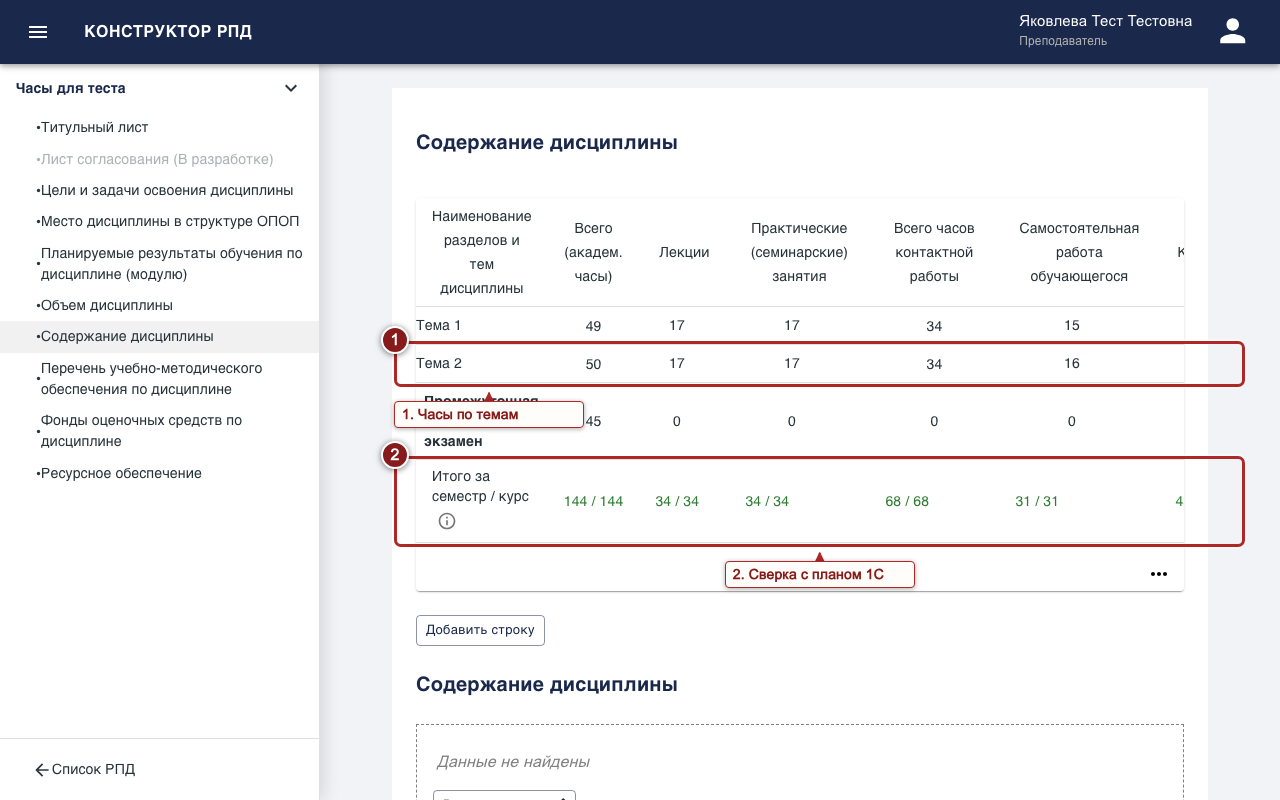
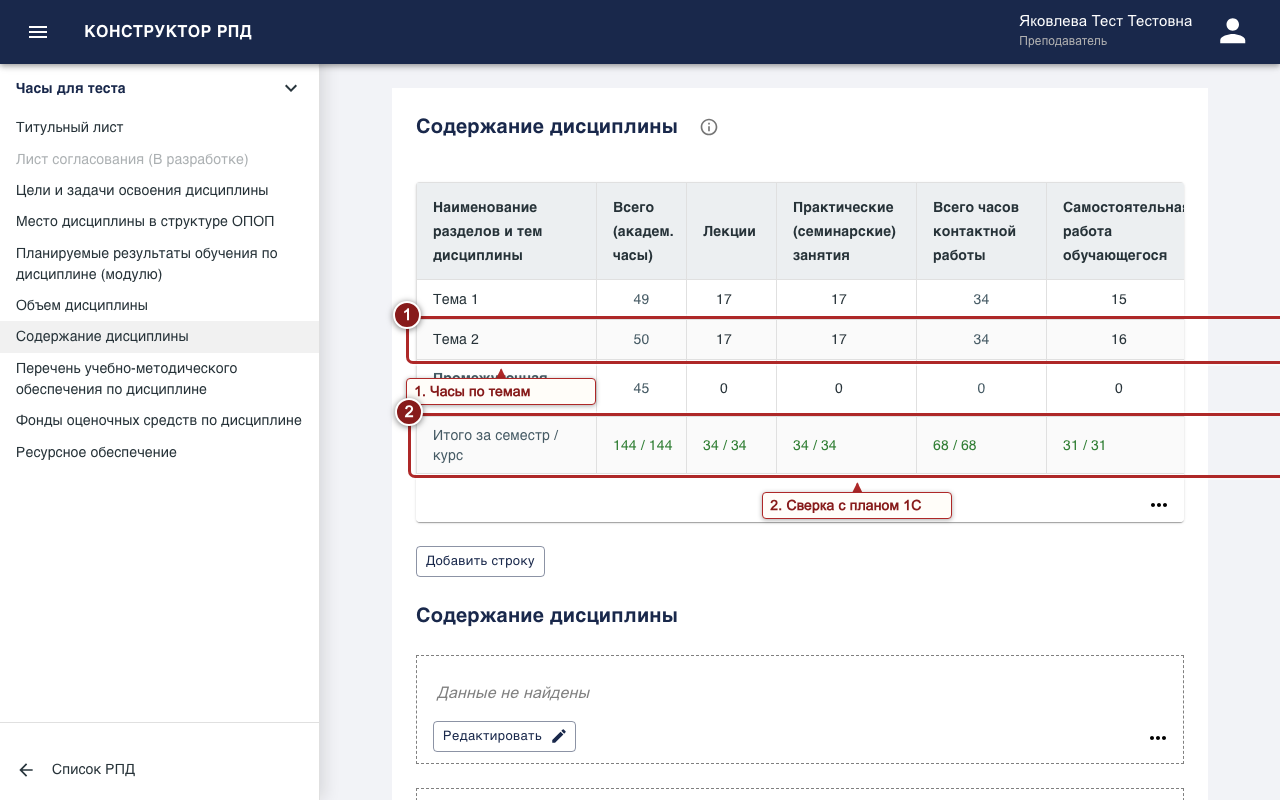
Документация: светлая строгая тема приложения, текст и скриншоты под изменения интерфейса
Проблема
- Документация (/docs/index.html) при тёмной системной теме открывалась в тёмном оформлении и по стилю не совпадала с приложением.
- Текст и скриншоты описывали прежний интерфейс: назначение в ячейке, сохранение по уходу фокуса, статус над разделом.

Причина
- В documentation.css стоял @media (prefers-color-scheme: dark), который подменял все цвета.

Что сделано
- Тёмный вариант убран, задан color-scheme: light. Цвета, шрифт и радиус 4 px взяты из темы приложения, заголовки тёмно-синие без плашек, у карточек нет тени. Содержание, навигация и адаптивность не изменились.
- Текст обновлён: колонки комплекта и диалог назначения, действия РПД по ролям, иконка «Открыть», сохранение текстов кнопкой, статус внизу панели разделов, значок «Правила заполнения» и предупреждение о часах, порядок меню профиля.
- В screenshots.spec назначение идёт через диалог, сохранение — через кнопку, присутствие берётся из блока статуса. Все десять скриншотов перегенерированы.

Как проверить
- cd e2e && bun run test:e2e tests/docs/theme.spec.ts — фон светлый при colorScheme light и dark, якоря работают.
- cd e2e && bun run docs:screenshots — кадры снимаются без ошибок.

diff --git a/rpd-client-ts/public/docs/index.html b/rpd-client-ts/public/docs/index.html
@@ -45,7 +45,7 @@
           <li><strong>Администратор</strong> управляет учётными записями.</li></ul>
       </section>
       <section class="sub-chapter" id="navigation"><h3>Навигация и смена роли</h3>
-        <p>Откройте боковую панель кнопкой ☰. Пункт <strong>«Документация»</strong> открывает эту страницу в новой вкладке. У аккаунта РОП в меню профиля есть переключение между ролями РОП и преподавателя; у остальных ролей такого переключения нет.</p>
+        <p>Откройте боковую панель кнопкой ☰. Пункт <strong>«Документация»</strong> открывает эту страницу в новой вкладке. Меню профиля открывается по имени в правом верхнем углу. У аккаунта РОП сверху в нём переключатель между ролями РОП и преподавателя, ниже — <strong>«Настройки»</strong> и <strong>«Выйти»</strong>; у остальных ролей переключателя нет.</p>
       </section>
     </section>
 
@@ -64,14 +64,17 @@
           <figcaption>Список комплектов: 1 — откройте комплект кнопкой «Комплект РПД».</figcaption></figure>
       </section>
       <section class="sub-chapter" id="rpd-in-complect"><h3>РПД и преподаватели</h3>
-        <p>В комплекте каждая строка соответствует дисциплине. Если РПД ещё не создана, нажмите <strong>«Создать»</strong> в колонке «Действия». Для созданной РПД откройте <strong>«Меню шаблона»</strong> и выберите <strong>«Открыть»</strong>. В колонке «Преподаватели» выберите один или несколько существующих аккаунтов: назначение сохраняется при изменении выбора. Подсказка «из 1С» помогает найти нужного преподавателя; если аккаунта нет, его должен создать администратор.</p>
+        <p>В комплекте каждая строка соответствует дисциплине; колонки — «Дисциплина», «Семестр», «Преподаватели», «Статус» и «Действия». Если РПД ещё не создана, нажмите <strong>«Создать»</strong> в колонке «Действия». Для созданной РПД откройте <strong>«Меню шаблона»</strong> (значок «…») и выберите <strong>«Открыть»</strong>.</p>
+        <p>В колонке «Преподаватели» назначенные перечислены списком: полное ФИО и личная отметка — «Назначен», «В работе» или «Готово»; неактивные аккаунты помечены. Состав меняется в диалоге «Преподаватели: …». Откройте его кнопкой ✎ <strong>«Изменить преподавателей»</strong> в ячейке или одноимённым пунктом меню «…». В диалоге найдите преподавателя в поле поиска и отметьте флажок; пометка «из 1С» показывает, кто указан в 1С. Если преподаватель есть в 1С, но аккаунта нет, внизу диалога появится справка «В 1С, аккаунт не найден» — такой аккаунт должен создать администратор. Изменения применяются сразу, диалог закрывается кнопкой <strong>«Закрыть»</strong>. В статусе «Готов» состав менять нельзя: сначала верните РПД на доработку.</p>
+        <p>Изменения из 1С («Обновлено из 1С», дата, «Просмотрено») показаны в колонке «Статус» под этапом.</p>
         <figure class="figure"><img src="media/complect-table.png" alt="Страница комплекта с дисциплинами, преподавателями и статусами" width="1280" height="800" loading="lazy" />
           <figcaption>Страница комплекта: 1 — найдите дисциплину; 2 — проверьте статус и отметки готовности.</figcaption></figure>
-        <figure class="figure"><img src="media/teacher-selection.png" alt="Выбор аккаунтов преподавателей в строке РПД" width="1280" height="800" loading="lazy" />
-          <figcaption>Назначение преподавателей: 1 — откройте поле «Преподаватели»; 2 — выберите аккаунт из списка.</figcaption></figure>
+        <figure class="figure"><img src="media/teacher-selection.png" alt="Диалог назначения преподавателей с поиском и флажками" width="1280" height="800" loading="lazy" />
+          <figcaption>Назначение преподавателей: 1 — найдите аккаунт в поле поиска; 2 — отметьте его флажком.</figcaption></figure>
       </section>
       <section class="sub-chapter" id="workflow"><h3>Готовность и согласование</h3>
-        <p>Преподаватели отмечают свою работу кнопкой <strong>«Готово»</strong>. Колонка «Статус» показывает общую готовность и число отметившихся. Когда все активные назначенные преподаватели отметились, статус становится «Готов». При необходимости РОП может нажать <strong>«Принять»</strong> раньше: в статусах «Назначены преподаватели», «В работе» или «На доработке», если есть хотя бы один активный преподаватель. После этого статус также становится «Готов». В статусе «Готов» РОП может нажать <strong>«Вернуть на доработку»</strong> с обязательным комментарием; преподавателям снова потребуется отметить готовность.</p>
+        <p>Действия в колонке «Действия» зависят от активной роли. У преподавателя — основная кнопка: <strong>«Взять в работу»</strong>, затем <strong>«Готово»</strong>; остальное, например <strong>«Снять отметку»</strong>, — в меню «…». Колонка «Статус» показывает этап и число отметившихся («N/M готовы»). Когда все активные назначенные преподаватели отметились, статус становится «Готов».</p>
+        <p>У РОП основная кнопка — <strong>«Принять»</strong>: он может принять РПД раньше, в статусах «Назначены преподаватели», «В работе» или «На доработке», если есть хотя бы один активный преподаватель. После этого статус также становится «Готов». В статусе «Готов» РОП нажимает <strong>«Вернуть на доработку»</strong> с обязательным комментарием; преподавателям снова потребуется отметить готовность.</p>
       </section>
       <section class="sub-chapter" id="import-history"><h3>Импорт и история</h3>
         <p>В <strong>«Меню шаблона»</strong> выберите <strong>«Импортировать»</strong>, затем комплект и готовый шаблон для переноса содержательных полей. Перед подтверждением проверьте, какие данные будут заменены. Пункт <strong>«История шаблона»</strong> показывает события статусов и назначений; правки отдельных полей смотрите в редакторе.</p>
@@ -88,24 +91,25 @@
           <figcaption>Компетенции: 1 — выберите профиль; 2 — укажите год набора.</figcaption></figure>
       </section>
       <section class="sub-chapter" id="comments"><h3>Комментарии к разделам</h3>
-        <p>В редакторе РОП может добавить комментарий у заголовка раздела. Преподаватель видит комментарий рядом с этим разделом. Если РПД требует исправлений целиком, используйте <strong>«Вернуть на доработку»</strong> с комментарием.</p>
+        <p>В редакторе РОП может добавить комментарий у заголовка раздела: текст вводится в редакторе и сохраняется кнопкой <strong>«Сохранить комментарий»</strong>, у комментария указано ФИО автора. Преподаватель видит комментарий рядом с этим разделом. Если РПД требует исправлений целиком, используйте <strong>«Вернуть на доработку»</strong> с комментарием.</p>
       </section>
     </section>
 
     <section class="chapter" aria-labelledby="teacher-heading">
       <h2 id="teacher-heading">Преподаватель</h2>
       <section class="sub-chapter" id="my-rpd"><h3>Свои РПД</h3>
-        <p>Откройте <strong>«Список шаблонов»</strong>. В таблице видны назначенные РПД, их общий статус и колонка «Моя отметка». Нажмите <strong>«Открыть»</strong> в нужной строке.</p>
+        <p>Откройте <strong>«Список шаблонов»</strong>. В таблице видны назначенные РПД, их общий статус и колонка «Моя отметка». В колонке «Действия» значок <strong>«Открыть»</strong> (подпись появляется при наведении) открывает редактор; рядом — основная кнопка («Взять в работу» или «Готово»), остальные действия — в меню «…».</p>
         <figure class="figure"><img src="media/teacher-templates.png" alt="Список назначенных преподавателю РПД" width="1280" height="800" loading="lazy" />
-          <figcaption>Свои РПД: 1 — найдите дисциплину; 2 — откройте её.</figcaption></figure>
+          <figcaption>Свои РПД: 1 — проверьте колонку «Моя отметка»; 2 — откройте РПД значком «Открыть».</figcaption></figure>
       </section>
       <section class="sub-chapter" id="editor"><h3>Редактор и совместная работа</h3>
-        <p>Выберите раздел в боковой панели. Текст и ячейки таблиц сохраняются при выходе из редактируемого поля. Над разделом видно, кто сейчас открыл шаблон и кто внёс последние правки. Если другой участник изменил то же поле раньше вас, редактор сообщит о конфликте и покажет актуальное содержимое; проверьте его перед повторной правкой.</p>
-        <figure class="figure"><img src="media/editor-collaboration.png" alt="Редактор РПД с панелью присутствия и сведениями о последнем изменении" width="1280" height="800" loading="lazy" />
-          <figcaption>Редактор: 1 — выберите раздел; 2 — проверьте участников и сведения об изменении.</figcaption></figure>
+        <p>Выберите раздел в боковой панели. Тексты РПД (цели, место дисциплины, дополнительные тексты, ресурсное обеспечение) открываются кнопкой <strong>«Редактировать»</strong> и сохраняются кнопкой <strong>«Сохранить изменения»</strong>; <strong>«Отменить»</strong> закрывает редактор без сохранения. Ячейки таблиц, списки и выбор значений сохраняются при выходе из ячейки.</p>
+        <p>Внизу боковой панели, над кнопкой «Сформировать документ», показаны статус сохранения («Сохранение…», «Есть несохранённые изменения», «Сохранено в …»), последняя правка шаблона и строка «Сейчас в шаблоне» со списком участников. Под заголовком раздела написано «Изменено: …» — кто и когда правил его последним. Если другой участник изменил то же поле раньше вас, редактор сообщит о конфликте: у текста черновик останется в редакторе — отмените редактирование, чтобы увидеть актуальное значение, и внесите правку заново.</p>
+        <figure class="figure"><img src="media/editor-collaboration.png" alt="Редактор РПД: панель разделов со статусом сохранения, последней правкой и участниками" width="1280" height="800" loading="lazy" />
+          <figcaption>Редактор: 1 — выберите раздел; 2 — внизу панели проверьте статус сохранения, последнюю правку и участников.</figcaption></figure>
       </section>
       <section class="sub-chapter" id="hours"><h3>Содержание дисциплины и часы</h3>
-        <p>В разделе <strong>«Содержание дисциплины»</strong> заполняйте темы и часы. Сумма по темам сравнивается с учебным планом 1С: зелёный цвет означает совпадение, красный — расхождение. Контроль указывают в строке промежуточной аттестации. Данные учебного плана справа могут менять только РОП и администратор. Изменения в ячейке сохраняются при выходе из неё.</p>
+        <p>В разделе <strong>«Содержание дисциплины»</strong> заполняйте темы и часы. Значок ⓘ <strong>«Правила заполнения»</strong> у заголовка раздела напоминает формулы расчёта, правило для контроля и смысл цветов. Сумма по темам сравнивается с учебным планом 1С: зелёный цвет означает совпадение, красный — расхождение. При расхождении под таблицей появляется предупреждение «Часы не совпадают с учебным планом» с перечнем только несовпавших показателей, например «всего 132 из 144; лекции 22 из 34». Контроль указывают в строке промежуточной аттестации. Данные учебного плана справа могут менять только РОП и администратор. Изменения в ячейке сохраняются при выходе из неё.</p>
         <figure class="figure"><img src="media/discipline-content.png" alt="Таблица содержания дисциплины с часами по темам и планом 1С" width="1280" height="800" loading="lazy" />
           <figcaption>Часы: 1 — заполните темы; 2 — сравните суммы с планом 1С.</figcaption></figure>
       </section>

diff --git a/rpd-client-ts/public/docs/css/documentation.css b/rpd-client-ts/public/docs/css/documentation.css
@@ -1,50 +1,51 @@
+/* Цвета и шрифт — из темы приложения (src/shared/config/theme.ts); страница всегда светлая. */
 :root {
   color-scheme: light;
-  --ink: #1e2a36;
-  --muted: #3d5060;
-  --bg: #f4f6fa;
+  --ink: #263238;
+  --muted: #546e7a;
+  --primary: #19284b;
+  --bg: #f2f3f7;
   --card: #fff;
-  --soft: #f2f5fb;
-  --border: #dce3ec;
-  --accent: #263238;
-  --link: #185991;
-  --focus: #b5412c;
+  --soft: #f2f3f7;
+  --border: rgba(0, 0, 0, .12);
+  --hover: rgba(0, 0, 0, .04);
+  --radius: 4px;
 }
 * { box-sizing: border-box; }
 html { scroll-behavior: smooth; }
-body { margin: 0; padding: 32px 24px; background: var(--bg); color: var(--ink); font: 16px/1.6 system-ui, -apple-system, "Segoe UI", sans-serif; }
-.wrapper { max-width: 1360px; margin: auto; display: flex; align-items: flex-start; gap: 32px; }
-.sidebar, .content { background: var(--card); border: 1px solid var(--border); border-radius: 14px; box-shadow: 0 4px 16px #0000000a; }
+body { margin: 0; padding: 32px 24px; background: var(--bg); color: var(--ink); font: 16px/1.6 "Roboto", "Helvetica", "Arial", sans-serif; }
+.wrapper { max-width: 1360px; margin: auto; display: flex; align-items: flex-start; gap: 24px; }
+.sidebar, .content { background: var(--card); border: 1px solid var(--border); border-radius: var(--radius); }
 .sidebar { position: sticky; top: 24px; flex: 0 0 270px; max-height: calc(100vh - 48px); overflow-y: auto; padding: 20px 16px; }
-.sidebar h2 { margin: 0 0 12px; padding: 0 6px 8px; border-bottom: 1px solid var(--border); color: var(--muted); font-size: 15px; text-transform: uppercase; letter-spacing: .02em; }
+.sidebar h2 { margin: 0 0 12px; padding: 0 6px 8px; border-bottom: 1px solid var(--border); color: var(--muted); font-size: 13px; font-weight: 700; text-transform: uppercase; letter-spacing: .04em; }
 .nav-section { border-bottom: 1px solid var(--border); padding: 4px 0; }
 .nav-section:last-child { border: 0; }
-.nav-header { display: block; width: 100%; padding: 7px 8px; border: 0; border-radius: 8px; background: transparent; color: var(--ink); font: inherit; font-size: 14px; font-weight: 700; text-align: left; cursor: pointer; }
+.nav-header { display: block; width: 100%; padding: 7px 8px; border: 0; border-radius: var(--radius); background: transparent; color: var(--ink); font: inherit; font-size: 14px; font-weight: 700; text-align: left; cursor: pointer; }
 .nav-header::before { content: '▶'; display: inline-block; width: 21px; color: var(--muted); transition: transform .2s; }
 .nav-header[aria-expanded="true"]::before { transform: rotate(90deg); }
 .nav-sub { padding-left: 21px; }
 .nav-sub[hidden] { display: none; }
-.nav-sub a { display: block; padding: 5px 8px; border-radius: 6px; color: var(--ink); font-size: 13px; text-decoration: none; }
+.nav-sub a { display: block; padding: 5px 8px; border-radius: var(--radius); color: var(--ink); font-size: 13px; text-decoration: none; }
 .nav-sub a::before { content: '— '; color: var(--muted); }
-.nav-header:hover, .nav-sub a:hover { background: var(--soft); }
-a { color: var(--link); }
-a:focus-visible, button:focus-visible { outline: 3px solid var(--focus); outline-offset: 2px; }
+.nav-header:hover, .nav-sub a:hover { background: var(--hover); }
+a { color: var(--primary); }
+a:focus-visible, button:focus-visible { outline: 2px solid var(--primary); outline-offset: 2px; }
 .content { min-width: 0; flex: 1; padding: 40px 48px; overflow-wrap: anywhere; }
-.content h1 { margin: 0 0 8px; font-size: 30px; line-height: 1.2; }
+.content h1 { margin: 0 0 8px; color: var(--primary); font-size: 28px; font-weight: 700; line-height: 1.25; }
 .subhead { margin: 0 0 32px; padding-bottom: 16px; border-bottom: 1px solid var(--border); color: var(--muted); font-size: 18px; }
-.chapter { margin-top: 44px; padding-top: 28px; border-top: 2px solid var(--border); }
+.chapter { margin-top: 40px; padding-top: 28px; border-top: 1px solid var(--border); }
 .chapter:first-of-type { margin-top: 0; padding-top: 0; border: 0; }
-.chapter > h2 { display: inline-block; margin: 0; padding: 4px 16px 4px 14px; border-left: 5px solid var(--accent); border-radius: 8px; background: var(--soft); font-size: 24px; line-height: 1.35; }
-.sub-chapter { margin-top: 30px; scroll-margin-top: 30px; }
-.sub-chapter h3 { display: inline-block; margin: 0 0 12px; padding: 4px 12px; border-bottom: 2px solid var(--border); border-radius: 6px; background: var(--soft); font-size: 20px; line-height: 1.4; }
+.chapter > h2 { margin: 0; color: var(--primary); font-size: 24px; font-weight: 700; line-height: 1.3; }
+.sub-chapter { margin-top: 28px; scroll-margin-top: 30px; }
+.sub-chapter h3 { margin: 0 0 12px; color: var(--primary); font-size: 18px; font-weight: 700; line-height: 1.4; }
 .sub-chapter p { margin: 0 0 12px; }
 .sub-chapter ul, .sub-chapter ol { margin: 8px 0 12px; padding-left: 26px; }
 .sub-chapter li { margin-bottom: 5px; }
-.note { margin: 16px 0; padding: 12px 18px; border-left: 4px solid var(--accent); border-radius: 10px; background: var(--soft); }
-.figure { margin: 20px 0 16px; padding: 16px; border: 1px solid var(--border); border-radius: 10px; background: var(--soft); text-align: center; }
-.figure img { display: block; max-width: 100%; height: auto; margin: auto; border: 1px solid var(--border); border-radius: 6px; }
-.figure figcaption { margin-top: 10px; color: var(--muted); font-size: 14px; font-weight: 500; }
-code { padding: 2px 5px; border-radius: 4px; background: var(--soft); }
+.note { margin: 16px 0; padding: 12px 16px; border: 1px solid var(--border); border-radius: var(--radius); background: var(--soft); }
+.figure { margin: 20px 0 16px; padding: 16px; border: 1px solid var(--border); border-radius: var(--radius); background: var(--soft); text-align: center; }
+.figure img { display: block; max-width: 100%; height: auto; margin: auto; border: 1px solid var(--border); border-radius: var(--radius); }
+.figure figcaption { margin-top: 10px; color: var(--muted); font-size: 14px; }
+code { padding: 2px 5px; border-radius: var(--radius); background: var(--soft); }
 .footer-doc { margin-top: 40px; padding-top: 20px; border-top: 1px solid var(--border); color: var(--muted); font-size: 13px; text-align: center; }
 @media (max-width: 850px) {
   body { padding: 16px; }
@@ -56,13 +57,10 @@ code { padding: 2px 5px; border-radius: 4px; background: var(--soft); }
   body { padding: 8px; }
   .sidebar { padding: 12px; }
   .content { padding: 18px 14px; }
-  .content h1 { font-size: 26px; }
+  .content h1 { font-size: 24px; }
   .chapter > h2 { font-size: 22px; }
-  .sub-chapter h3 { font-size: 18px; }
+  .sub-chapter h3 { font-size: 17px; }
   .figure { padding: 6px; }
-}
-@media (prefers-color-scheme: dark) {
-  :root { color-scheme: dark; --ink: #e5edf4; --muted: #bac9d6; --bg: #121b23; --card: #1c2934; --soft: #263746; --border: #3b5162; --accent: #8db5d5; --link: #9cccf0; --focus: #ffb28e; }
 }
 @media (prefers-reduced-motion: reduce) {
   html { scroll-behavior: auto; }

diff --git a/e2e/tests/docs/screenshots.spec.ts b/e2e/tests/docs/screenshots.spec.ts
@@ -3,6 +3,7 @@ import { parseEnv } from 'node:util';
 import { fileURLToPath } from 'node:url';
 import { expect, test, type ElementHandle, type Locator, type Page } from '@playwright/test';
 import { complects, disciplines, openComplect, showAllRows, signIn } from '../helpers';
+import { closeTeachersDialog, openTeachersDialog } from '../teacherAssignments';
 
 test.use({ viewport: { width: 1280, height: 800 } });
 
@@ -211,14 +212,16 @@ test('снимки инструкции на синтетических данн
     { target: rpdRow.getByRole('cell').nth(3), label: 'Статус РПД' },
   ]);
 
-  const teachers = rpdRow.getByRole('combobox', { name: 'Преподаватели' });
-  await teachers.click();
-  const teacherOption = page.getByRole('option', { name: /Яковлева/ });
+  // Состав не меняем: в кадре только поиск и флажок нужного аккаунта.
+  const teachersDialog = await openTeachersDialog(page, rpdRow, disciplines.inProgress);
+  const teacherSearch = teachersDialog.getByRole('textbox', { name: 'Поиск преподавателя' });
+  await teacherSearch.fill('Яковлева');
+  const teacherCheckbox = teachersDialog.getByRole('checkbox', { name: /Яковлева/ });
   await save(page, 'teacher-selection', [
-    { target: teachers, label: 'Поле преподавателей' },
-    { target: teacherOption, label: 'Выбрать аккаунт' },
+    { target: teacherSearch, label: 'Найти преподавателя', placement: 'bottom' },
+    { target: teacherCheckbox, label: 'Отметить аккаунт', placement: 'right', avoid: [teachersDialog.getByRole('button', { name: 'Закрыть' })] },
   ]);
-  await teachers.press('Escape');
+  await closeTeachersDialog(teachersDialog);
 
   await page.getByRole('button', { name: 'Собрать ФОСы' }).click();
   const fundsDialog = page.getByRole('dialog', { name: 'Сформировать ФОС' });
@@ -252,11 +255,14 @@ test('снимки инструкции на синтетических данн
     const teacherPage = await teacherContext.newPage();
     await signIn(teacherPage, 'teacher');
     const templateRow = teacherPage.getByRole('row').filter({ hasText: 'Совместное редактирование для теста' });
+    // Таблица шире окна: прокручиваем к колонке «Действия», чтобы в кадре были «Моя отметка» и значок «Открыть».
+    const openButton = templateRow.getByRole('button', { name: 'Открыть' });
+    await openButton.scrollIntoViewIfNeeded();
     await save(teacherPage, 'teacher-templates', [
-      { target: templateRow.getByRole('cell', { name: 'Совместное редактирование для теста' }), label: 'Своя дисциплина' },
-      { target: templateRow.getByRole('button', { name: 'Открыть' }), label: 'Открыть РПД' },
+      { target: templateRow.getByRole('cell', { name: 'Назначен', exact: true }), label: 'Моя отметка' },
+      { target: openButton, label: 'Открыть РПД' },
     ]);
-    await templateRow.getByRole('button', { name: 'Открыть' }).click();
+    await openButton.click();
     const aims = teacherPage.getByRole('button', { name: 'Цели и задачи освоения дисциплины' });
     await aims.click();
 
@@ -265,19 +271,20 @@ test('снимки инструкции на синтетических данн
     await secondPage.getByRole('row').filter({ hasText: 'Совместное редактирование для теста' })
       .getByRole('button', { name: 'Открыть' }).click();
     await secondPage.getByRole('button', { name: 'Цели и задачи освоения дисциплины' }).click();
-    const presence = teacherPage.getByText(/Сейчас в шаблоне: Яковлева/);
-    await expect(presence).toBeVisible();
+    // Сохранение, последняя правка и присутствие — в блоке внизу панели разделов.
+    const status = teacherPage.getByRole('status', { name: 'Сохранение и присутствие' });
+    await expect(status.getByText(/Сейчас в шаблоне: Яковлева/)).toBeVisible();
     await teacherPage.getByRole('button', { name: 'Редактировать' }).click();
     const editor = teacherPage.locator('.textEditor [contenteditable="true"]');
     await editor.press('ControlOrMeta+a');
     await editor.pressSequentially('Цель обучения на синтетических данных');
     const saved = teacherPage.waitForResponse((response) => response.request().method() === 'PUT' && response.url().includes('/api/update-json-value/110') && response.ok());
-    await teacherPage.getByText('Цели и задачи освоения дисциплины', { exact: true }).last().click();
+    await teacherPage.getByRole('button', { name: 'Сохранить изменения' }).click();
     await saved;
-    await expect(presence.locator('..').getByText(/Изменено: Альфина/)).toBeVisible();
+    await expect(status.getByText(/Изменено: Альфина/)).toBeVisible();
     await save(teacherPage, 'editor-collaboration', [
-      { target: aims, label: 'Раздел редактора' },
-      { target: presence, label: 'Участники и правки' },
+      { target: aims, label: 'Раздел редактора', avoid: [teacherPage.getByRole('main').getByText(/Изменено: Альфина/)] },
+      { target: status, label: 'Статус и участники' },
     ]);
 
     await secondPage.getByRole('button', { name: 'Список РПД' }).click();

diff --git a/e2e/tests/docs/theme.spec.ts b/e2e/tests/docs/theme.spec.ts
@@ -1,0 +1,42 @@
+import { expect, test } from '@playwright/test';
+
+// Яркость цвета из computed style `rgb(r, g, b)` / `rgba(r, g, b, a)`: 0 — чёрный, 255 — белый.
+const brightness = (color: string) => {
+  const [r, g, b] = color.match(/[\d.]+/g)!.map(Number);
+  return Math.min(r, g, b);
+};
+
+for (const colorScheme of ['light', 'dark'] as const) {
+  test.describe(`системная тема: ${colorScheme}`, () => {
+    test.use({ colorScheme });
+
+    test('документация остаётся светлой и строгой', async ({ page }) => {
+      await page.goto('/docs/index.html');
+      const style = (selector: string, property: string) =>
+        page.locator(selector).first().evaluate(
+          (element, name) => getComputedStyle(element).getPropertyValue(name), property);
+
+      expect(brightness(await style('body', 'background-color'))).toBeGreaterThanOrEqual(240);
+      expect(brightness(await style('main.content', 'background-color'))).toBeGreaterThanOrEqual(240);
+      expect(brightness(await style('aside.sidebar', 'background-color'))).toBeGreaterThanOrEqual(240);
+      expect(brightness(await style('body', 'color'))).toBeLessThanOrEqual(80);
+      expect(await style('html', 'color-scheme')).toBe('light');
+      // Заголовки — обычный текст без плашек-фонов.
+      for (const heading of ['.chapter > h2', '.sub-chapter h3']) {
+        expect(await style(heading, 'background-color')).toBe('rgba(0, 0, 0, 0)');
+      }
+    });
+
+    test('якоря содержания ведут к разделам', async ({ page }) => {
+      await page.goto('/docs/index.html');
+      await page.getByRole('link', { name: 'Содержание и часы' }).click();
+      await expect(page).toHaveURL(/#hours$/);
+      await expect(page.locator('#hours')).toBeInViewport();
+
+      const header = page.getByRole('button', { name: 'Администратор' });
+      await header.click();
+      await expect(header).toHaveAttribute('aria-expanded', 'false');
+      await expect(page.getByRole('link', { name: 'Пользователи' })).toBeHidden();
+    });
+  });
+}
